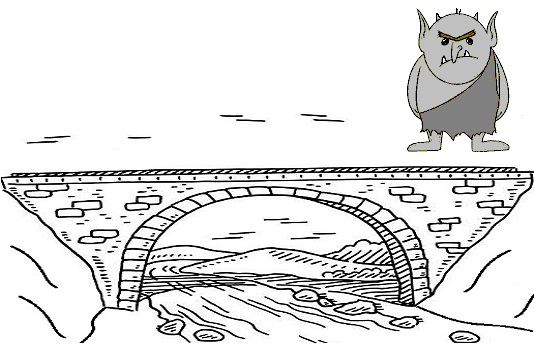
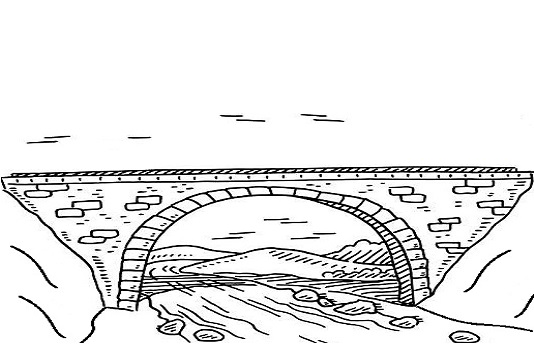
3dizzy [4]: TOLL1 (#9)

Changed region(s): [[0.7491, 0.0291, 0.9588, 0.4651]]

diff --git a/3dizzy/dizzol/rooms.js b/3dizzy/dizzol/rooms.js
@@ -80,6 +80,32 @@ class Room12 extends Room{
         super.draw();
         this.enemyLoader.load('../../common/pics/aldir.png', 115, 340);
     }
+
+    movePlayerLeft(player){
+        super.movePlayerLeft(player);
+        if (player.x > 90 && player.x < 140){
+            console.log("Aldgir: Have you seen my swords?");
+            this.enemyLoader.load('dizzol/valdgirQuote.png', 99, 270);
+        }
+    }
+
+    movePlayerRight(player){
+        super.movePlayerRight(player);
+        if (player.x > 90 && player.x < 140){
+            console.log("Aldgir: Have you seen my swords?");
+            this.enemyLoader.load('dizzol/valdgirQuote.png', 99, 270);
+        }
+    }
+
+    handleFirePressed(player){
+        super.handleFirePressed(player);
+        if (player.x > 150 && player.x < 320){
+            console.log("Aldgir: Don't touch Valdgir's trasure !!!");
+            this.enemyLoader.load('dizzol/valdgirTreasureQuote.png', 99, 270);
+        }
+
+    }
+
 }
 
 class Room4 extends Room{
@@ -137,18 +163,61 @@ class Room7 extends Room{
 class Room8 extends Room{
 
     constructor(canvas){
-        super(DizzolGame.ROOM8, canvas, "dizzol/8.png", new RoomExit(-5, 431), new RoomExit(530, 425), DizzyGlobals.FLOOR_LEVELS_67, [], 0);
+        super(DizzolGame.ROOM8, canvas, "dizzol/8.png", new RoomExit(-5, 302), new RoomExit(530, 395), [], [], 0);
 
         this.setInfo("8. STAIRS");
+
+        this.floorLevels = [
+            { range: [0, 145], level: 302 },
+            { range: [146, 260], level: 335 },
+            { range: [261, 379], level: 368 },
+            { range: [308, Infinity], level: 395 }
+        ];
     }
 }
 
 class Room9 extends Room{
 
     constructor(canvas){
-        super(DizzolGame.ROOM9, canvas, "dizzol/9.png", new RoomExit(-5, 431), new RoomExit(530, 425), Room.FLOOR_LEVELS_67, [], 0);
+        super(DizzolGame.ROOM9, canvas, "dizzol/9.png", new RoomExit(-5, 302), new RoomExit(530, 302), [{ range: [-Infinity, Infinity], level: 302 }], [], 0);
 
         this.setInfo("9. TROLL DEMANDS TOLL");
+
+        this.trollX = 220;
+    }
+
+    movePlayerLeft(player){
+        const margin = 20;
+        super.movePlayerLeft(player);
+        if (player.x > this.trollX + margin){
+            console.log("Pay a toll !");
+            this.enemyLoader.load('dizzol/trollQuote1.png', this.trollX, 190);
+        }
+        if (Math.abs(player.x - this.trollX) <= margin ){
+            if (player.inventory.some(item => item.name === 'coin')){
+                const coinIndex = player.inventory.findIndex(item => item.name === 'coin');
+                player.inventory.splice(coinIndex,1);
+                player.x -= 3*margin;
+                console.log('TOLL PAID !');
+            }
+            else{
+                player.x += 2*margin;
+            }
+        }
+
+    }
+
+    movePlayerRight(player){
+        super.movePlayerRight(player);
+        if (player.x < this.trollX){
+            console.log("Pay a toll !");
+            this.enemyLoader.load('dizzol/trollQuote1.png', this.trollX, 190);
+        }
+    }
+
+    draw(){
+        super.draw();
+        this.enemyLoader.load('dizzol/trollR.png',this.trollX, 241);
     }
 }
 
@@ -182,18 +251,6 @@ class RoomRegistry{
 
     createRoomSet(canvas, c64Blackbox){
 
-        /*const exit67Left = new RoomExit(-5, 431);
-        const exit6Left = new RoomExit(70, 431);
-        const exit67Right = new RoomExit(530, 425);
-        const totemSfx1 = new SfxEvent("dizzol/totem.mp3");
-        const totemSfx2 = new SfxEvent("dizzol/totem.mp3");
-        const singleTotemCheckpoints = [new Checkpoint(315, 411, totemSfx1)];
-        const twoTotemCheckpoints = [new Checkpoint(140, 435, totemSfx1), new Checkpoint(305, 435, totemSfx2)];
-        const desertDeathEvent = new DelayedDeathEvent(null, 22000);
-        const desertDeathEvent2 = new DelayedDeathEvent(null, 22000);
-        const desertDeathCheckpoints = [new Checkpoint(500, 411, desertDeathEvent)];
-        const desertDeathCheckpoints2 = [new Checkpoint(500, 411, desertDeathEvent2)];*/
-
         const room1 = new Room1(canvas);
         const room2 = new Room2(canvas);
         const room3 = new Room3(canvas);
@@ -219,7 +276,7 @@ class RoomRegistry{
 }
 
 class RoomExit{
-    static size = 15;
+    static size = DizzyGlobals.PLAYER_SPEED * 5;
 
     constructor(x, y){
         this.x = x;

diff --git a/3dizzy/dizzol.js b/3dizzy/dizzol.js
@@ -87,9 +87,9 @@ class DizzolGame{
         setInterval(() => {
             if (!this.active)
                 return;
+
             const currentRoom = this.getCurrentRoom();
-            this.player.draw();
-            currentRoom.animate();
+            currentRoom.animate(this.player);
             this.checkCollisions();
         }, 16);
     }
@@ -116,22 +116,19 @@ class DizzolGame{
         const currentRoom = this.getCurrentRoom();
         currentRoom.draw();
         currentRoom.drawEnemies();
-        this.player.draw();
         currentRoom.drawItems();
     }
 
     moveFighterLeft(fighter){//fighter only for backward compatibility
-        this.player.moveLeft();
         const currentRoom = this.getCurrentRoom();
-        this.player.y = currentRoom.getFloorLevel(this.player.x);
+        currentRoom.movePlayerLeft(this.player);
         this.draw();
         this.checkExit(Direction.LEFT);
     }
 
     moveFighterRight(fighter){//fighter only for backward compatibility
-        this.player.moveRight();
         const currentRoom = this.getCurrentRoom();
-        this.player.y = currentRoom.getFloorLevel(this.player.x);
+        currentRoom.movePlayerRight(this.player);
         this.draw();
         this.checkExit(Direction.RIGHT);
     }
@@ -140,46 +137,7 @@ class DizzolGame{
         console.log('FIRE !');
 
         const currentRoom = this.getCurrentRoom();
-
-        currentRoom.writeUpperInfo("You picked " + this.pickGarlic());
-        new Promise((resolve) => {
-            setTimeout(() => {
-                resolve();
-            }, 1000);
-        }).then(() => {
-            let inventoryInfo = "Inventory: ";
-            this.player.inventory.forEach(item => {
-                inventoryInfo += (item.name + " ");
-            });
-            console.log(inventoryInfo);
-            currentRoom.writeUpperInfo(inventoryInfo);
-
-            return new Promise((resolve2) => {
-                setTimeout(() => {
-                    resolve2();
-                }, 1000);
-            });
-        }).then(() => {
-            currentRoom.writeRoomInfo();
-        });
-    }
-
-    pickGarlic(){
-        let result = "nothing";
-        const room = this.getCurrentRoom();
-        const itemsShallowCopy = [...room.items];
-
-        itemsShallowCopy.forEach(item =>{
-            console.log("item at " + item.x + " player at " + this.player.x);
-            if (item.collide(this.player)){
-                console.log("Grabbing " + item.name);
-                room.items = room.items.filter(i => i !== item);
-                this.player.inventory.push(item);
-                result = 'garlic';
-                ping();
-            }
-        })
-        return result;
+        currentRoom.handleFirePressed(this.player);
     }
 
     checkExit(direction) {

diff --git a/3dizzy/dizzol/base.js b/3dizzy/dizzol/base.js
@@ -16,6 +16,7 @@ class Room{
                         { range: [238, Infinity], level: 425 }
                     ];
     constructor(number, canvas, picPath, leftExit, rightExit, floorLevels, checkpoints, batsCount){
+        this.player = null;
         this.number = number;
         this.picPath = picPath;
         this.leftExit = leftExit;
@@ -78,7 +79,8 @@ class Room{
 
     draw(){
         this.loader.draw(0, 9 * C64Blackbox.rowHeight);
-        //this.writeRoomInfo();
+        if(this.player)
+            this.player.draw();
     }
 
     writeRoomInfo(){
@@ -105,7 +107,9 @@ class Room{
         garlics.forEach(item => this.garlicLoader.draw(item.x, item.y));
     }
 
-    animate(){
+    animate(player){
+        this.player = player;
+        this.player.draw();
         if (this.bats.length > 0){
 
             this.bats.forEach(b => b.move());
@@ -113,6 +117,59 @@ class Room{
             this.drawItems();
             this.drawEnemies();
         }
+    }
+
+    movePlayerLeft(player){
+        player.moveLeft();
+        player.y = this.getFloorLevel(player.x);
+    }
+
+    movePlayerRight(player){
+        player.moveRight();
+        player.y = this.getFloorLevel(player.x);
+    }
+
+    handleFirePressed(player) {
+
+        this.writeUpperInfo("You picked " + this.pickGarlic(player));
+        new Promise((resolve) => {
+            setTimeout(() => {
+                resolve();
+            }, 1500);
+        }).then(() => {
+            let inventoryInfo = "Inventory: ";
+            player.inventory.forEach(item => {
+                inventoryInfo += (item.name + " ");
+            });
+            console.log(inventoryInfo);
+            this.writeUpperInfo(inventoryInfo);
+
+            return new Promise((resolve2) => {
+                setTimeout(() => {
+                    resolve2();
+                }, 1500);
+            });
+        }).then(() => {
+            this.writeRoomInfo();
+        });
+
+    }
+
+    pickGarlic(player){
+        let result = "nothing";
+        const itemsShallowCopy = [...this.items];
+
+        itemsShallowCopy.forEach(item =>{
+            console.log("item at " + item.x + " player at " + player.x);
+            if (item.collide(player)){
+                console.log("Grabbing " + item.name);
+                this.items = this.items.filter(i => i !== item);
+                player.inventory.push(item);
+                result = 'garlic';
+                ping();
+            }
+        })
+        return result;
     }
 
 	getFloorLevel(x) {

diff --git a/mariozuma-lode/files/levels.js b/mariozuma-lode/files/levels.js
@@ -209,7 +209,7 @@ class SceneValdgirSwords extends MainScene{
         const valdgirLogo = this.add.sprite(6.3*Globals.TILE_WIDTH + 13, 4.5*Globals.TILE_WIDTH, 'valdgir-logo');
         valdgirLogo.play('valdgir-swords');
 
-        const aldir = this.add.sprite(4*Globals.TILE_WIDTH, 9*Globals.TILE_WIDTH, 'aldir');
+        const aldir = this.add.sprite(4*Globals.TILE_WIDTH, 9.13*Globals.TILE_WIDTH, 'aldir');
         this.aldirQoute = this.add.sprite(4.6*Globals.TILE_WIDTH, 7.6*Globals.TILE_WIDTH, 'aldir-quote');
         this.aldirQoute.setDepth(11);
 

diff --git a/3dizzy/lib.js b/3dizzy/lib.js
@@ -1,5 +1,7 @@
 class DizzyGlobals {
 
+    static PLAYER_SPEED = 13;
+
     static FLOOR_LEVELS_1 = [
                        { range: [0, 120], level: 419 },
                        { range: [121, 152], level: 415 },
@@ -27,7 +29,7 @@ const Direction = Object.freeze({
 
 class Sprite {
     constructor(canvas, x, y) {
-        this.speed = 3;
+        this.speed = DizzyGlobals.PLAYER_SPEED;
         this.hp = 4;
         this.x = x;
         this.y = y;
